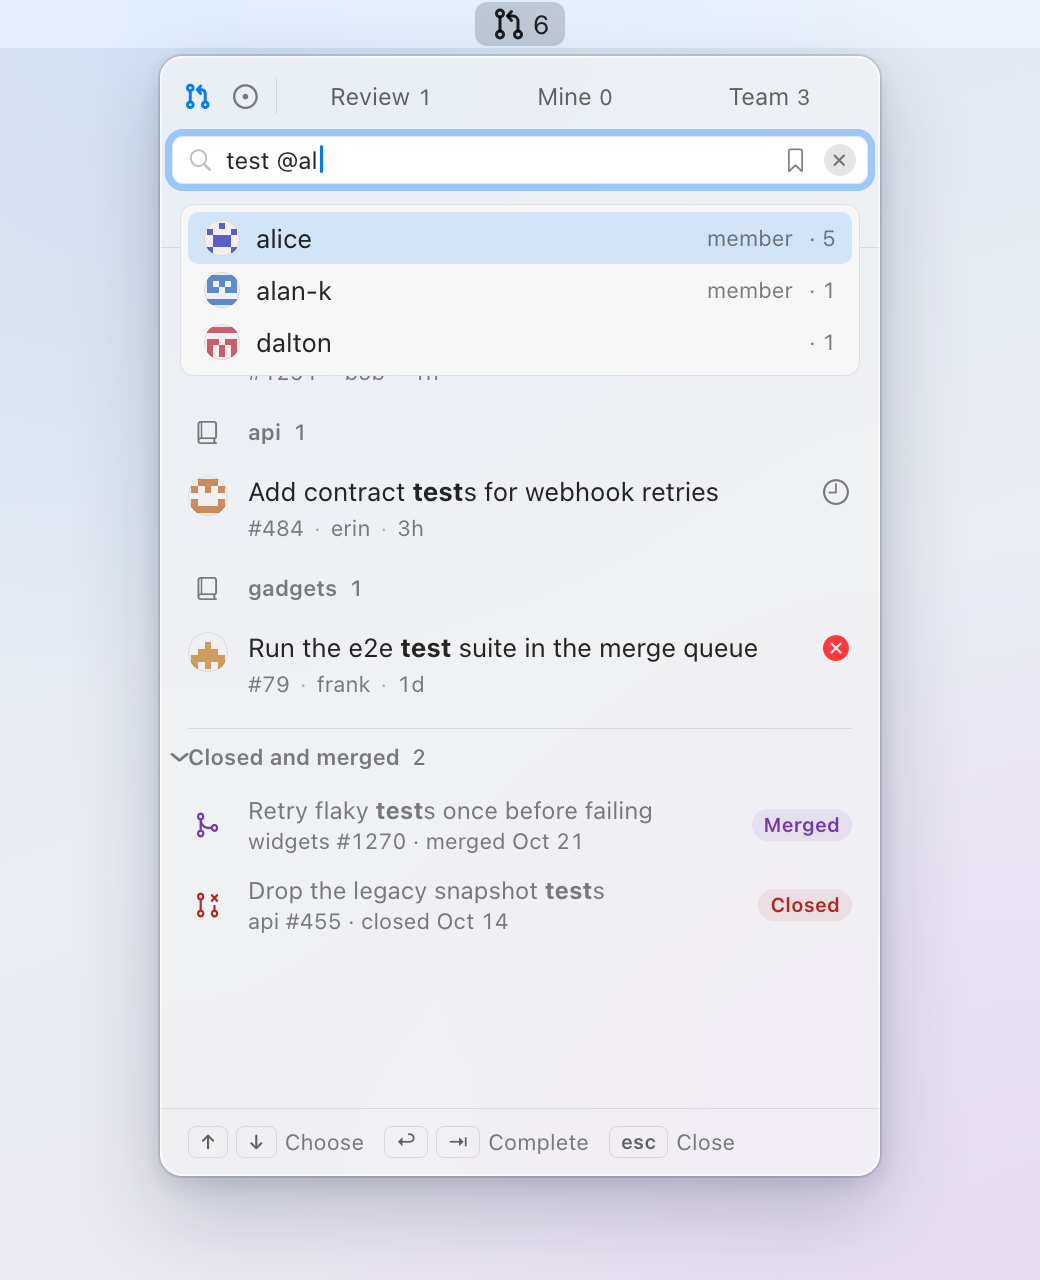
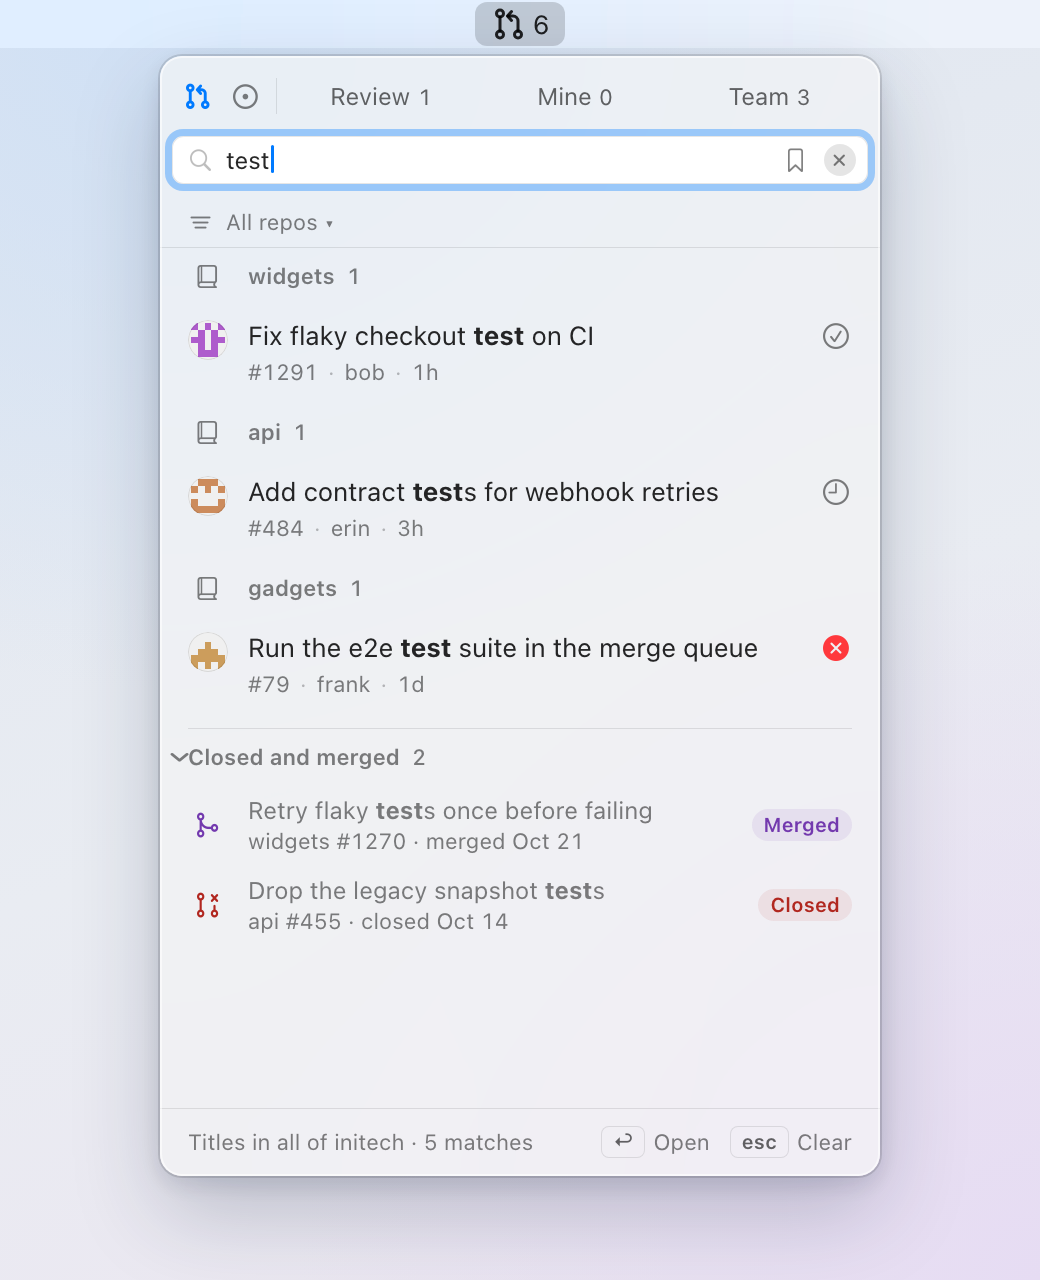
Docs: search still drops the completion list and shows the app's search footer

diff --git a/docs/media/src/search.js b/docs/media/src/search.js
@@ -1,9 +1,9 @@
 // PullBull search as HTML pieces: the results body (SearchResultsView, built from the tab components in
-// components.js), CompletionList, CompletionFooter and SearchFooter. Sizes in points; see popover.css.
+// components.js) and SearchFooter. Sizes in points; see popover.css.
 (function () {
   "use strict";
   const P = window.PullBull;
-  const { avatar, esc } = P;
+  const { esc } = P;
 
   /** Highlight.title: every query word in bold. */
   function highlight(title, words) {
@@ -15,27 +15,13 @@
     return html;
   }
 
-  /** CompletionList for "@…": avatar 18, login 13 pt (or "me · login"), "member" and "· N" in 11 pt. */
-  function completionList(c) {
-    const rows = c.candidates.map((p, i) => {
-      const name = p.isViewer ? `<span class="f13">me</span><span class="f11 c-secondary">· ${esc(p.login)}</span>` : `<span class="f13">${esc(p.login)}</span>`;
-      return `<div class="completion-row${i === c.selection ? " selected" : ""}">${avatar(p.login, 18)}${name}<span class="spacer" style="min-width:8px"></span>` +
-        `${p.isMember ? '<span class="f11 c-secondary">member</span>' : ""}${p.openCount > 0 ? `<span class="f11 c-secondary mono">· ${p.openCount}</span>` : ""}</div>`;
-    });
-    return `<div class="completion-list">${rows.join("")}</div>`;
-  }
-
   const keycap = (k) => `<span class="keycap">${esc(k)}</span>`;
   const keyHint = (keys, label) => `<span class="hstack" style="gap:4px">${keys.map(keycap).join("")}<span>${esc(label)}</span></span>`;
 
-  /** CompletionFooter: replaces the list or search footer while a completion list is open. */
-  function completionFooter() {
-    return `<div class="hstack footer f11" style="padding:0 14px;gap:10px">${keyHint(["↑", "↓"], "Choose")}${keyHint(["↩", "⇥"], "Complete")}${keyHint(["esc"], "Close")}<span class="spacer"></span></div>`;
-  }
-
-  /** SearchFooter: the result count, then ↩ Open and esc Clear. */
-  function searchFooter(count) {
-    return `<div class="hstack footer f11" style="padding:0 14px;gap:10px"><span class="mono">${count === 1 ? "1 result" : `${count} results`}</span><span class="spacer"></span>${keyHint(["↩"], "Open")}${keyHint(["esc"], "Clear")}</div>`;
+  /** SearchFooter: SearchSummary (SearchContext.footerText: coverage, then "· N matches"), "⌥⌘↩ Ask AI" when Ask is offered and the line fits (`s.ask`), then ↩ Open and esc Clear. */
+  function searchFooter(s) {
+    return `<div class="hstack footer f11" style="padding:0 14px;gap:10px"><span class="nowrap" style="font-variant-numeric:tabular-nums">${esc(s.coverage)} · ${s.count === 1 ? "1 match" : `${s.count} matches`}</span><span class="spacer"></span>` +
+      `${s.ask ? '<span class="nowrap">⌥⌘↩ Ask AI</span>' : ""}${keyHint(["↩"], "Open")}${keyHint(["esc"], "Clear")}</div>`;
   }
 
   /** SearchResultsView: the open results as the Team tab lays them out (repo groups, Team rows), then the ended ones under "Closed and merged". */
@@ -50,5 +36,5 @@
     return `<div class="list">${html}</div>`;
   }
 
-  Object.assign(P, { highlight, completionList, completionFooter, searchFooter, searchBody });
+  Object.assign(P, { highlight, searchFooter, searchBody });
 })();

diff --git a/docs/media/src/popover.css b/docs/media/src/popover.css
@@ -30,8 +30,6 @@
   --row-hover: rgba(255, 255, 255, 0.05);
   --approved: #56c26f;
   --card-fill: rgba(255, 255, 255, 0.035);
-  /* .regularMaterial behind the completion list */
-  --menu-material: rgba(48, 48, 50, 0.96);
   /* Native tooltip, darkAqua */
   --tooltip-bg: rgba(44, 44, 46, 0.96);
   --tooltip-text: rgba(255, 255, 255, 0.88);
@@ -81,7 +79,6 @@
   --row-hover: rgba(0, 0, 0, 0.05);
   --approved: #1f7a3a;
   --card-fill: rgba(0, 0, 0, 0.035);
-  --menu-material: rgba(248, 248, 248, 0.97);
   /* Native tooltip, aqua */
   --tooltip-bg: rgba(250, 250, 250, 0.97);
   --tooltip-text: rgba(0, 0, 0, 0.85);
@@ -432,14 +429,6 @@ body {
 .below-header { position: relative; flex: 1 1 auto; min-height: 0; display: flex; flex-direction: column; }
 .row strong, .closed-row strong { font-weight: 700; }
 .caret { display: inline-block; width: 1.5px; height: 14px; margin-left: 1px; vertical-align: -2px; background: var(--accent); border-radius: 1px; }
-.completion-overlay { position: absolute; left: 0; right: 0; top: 0; padding: 4px 10px 0; z-index: 5; }
-.completion-list {
-  padding: 4px; border-radius: 7px; background: var(--menu-material);
-  -webkit-backdrop-filter: blur(30px) saturate(1.6); backdrop-filter: blur(30px) saturate(1.6);
-  box-shadow: inset 0 0 0 0.5px var(--separator);
-}
-.completion-row { display: flex; align-items: center; gap: 8px; padding: 0 8px; height: 26px; border-radius: 5px; white-space: nowrap; color: var(--label); }
-.completion-row.selected { background: color-mix(in srgb, var(--accent) 15%, transparent); }
 .keycap {
   display: inline-flex; align-items: center; justify-content: center; min-width: 18px; height: 16px; padding: 0 6px;
   border-radius: 4px; box-shadow: inset 0 0 0 0.5px var(--separator);

diff --git a/docs/media/src/data/search.js b/docs/media/src/data/search.js
@@ -1,7 +1,6 @@
-// Demo data for search: Pull Requests mode, "test @al" typed with the caret at the end. The "@al" token is
-// being picked, so it is left out of the query (SearchFieldState): the results behind are for "test", laid out
-// like the Team tab, and the people list for "al" covers their top. Tab counts are each tab's matches; no tab
-// is selected (search spans all tabs).
+// Demo data for search: Pull Requests mode, "test" typed with the caret at the end. The results are laid out
+// like the Team tab. Tab counts are each tab's matches; no tab is selected (search spans all tabs). The footer
+// is SearchFooter: the coverage and match count, then Open and Clear. Ask AI is left out: with it the line is wider than the popover, so SearchFooter drops it.
 window.SCENES = window.SCENES || {};
 window.SCENES.search = {
   view: "search",
@@ -14,18 +13,11 @@ window.SCENES.search = {
     { id: "team", title: "Team", count: 3 },
   ],
   selectedTab: null,
-  search: { text: "test @al", focused: true },
+  search: { text: "test", focused: true },
   filter: { repoTitle: "All repos" },
-  completion: {
-    selection: 0,
-    candidates: [
-      { login: "alice", isMember: true, openCount: 5 },
-      { login: "alan-k", isMember: true, openCount: 1 },
-      { login: "dalton", isMember: false, openCount: 1 },
-    ],
-  },
   searchResults: {
     words: ["test"],
+    coverage: "Titles in all of initech",
     count: 5,
     // Laid out as the Team tab is, grouped by repo (newest group first) with Team's rows; no context line.
     groups: [

diff --git a/docs/media/src/components.js b/docs/media/src/components.js
@@ -399,11 +399,9 @@
     const P = window.PullBull;
     const searching = d.view === "search";
     const body = searching ? P.searchBody(d) : d.mode === "issues" ? issueList(d, scheme) : list(d);
-    const foot = d.completion ? P.completionFooter() : searching ? P.searchFooter(d.searchResults.count) : footer(d.viewer);
-    // The completion list overlays the top of the filter row and everything under it (PopoverView.tabsAndSearch).
-    const overlay = d.completion ? `<div class="completion-overlay">${P.completionList(d.completion)}</div>` : "";
+    const foot = searching ? P.searchFooter(d.searchResults) : footer(d.viewer);
     return `<div class="panel">${header(d)}${d.filter ? "" : '<div class="hairline"></div>'}` +
-      `<div class="below-header">${d.filter ? filterBar(d.filter) : ""}${body}${overlay}</div>${foot}</div>`;
+      `<div class="below-header">${d.filter ? filterBar(d.filter) : ""}${body}</div>${foot}</div>`;
   }
 
   function menuBarItem(count, open) {

diff --git a/README.md b/README.md
@@ -45,7 +45,7 @@ Keyboard-first · Native SwiftUI · Read-only
 |:-:|:-:|
 | <picture><source media="(prefers-color-scheme: dark)" srcset="docs/media/pr-detail-dark.png"><img src="docs/media/pr-detail-light.png" width="360" alt="Pull request detail, Ready to merge"></picture> | <picture><source media="(prefers-color-scheme: dark)" srcset="docs/media/issue-detail-dark.png"><img src="docs/media/issue-detail-light.png" width="360" alt="Issue detail with board card and linked PRs"></picture> |
 | **Board** | **Search** |
-| <picture><source media="(prefers-color-scheme: dark)" srcset="docs/media/board-dark.png"><img src="docs/media/board-light.png" width="360" alt="Board tab grouped by Status"></picture> | <picture><source media="(prefers-color-scheme: dark)" srcset="docs/media/search-dark.png"><img src="docs/media/search-light.png" width="360" alt="Search with people completion"></picture> |
+| <picture><source media="(prefers-color-scheme: dark)" srcset="docs/media/board-dark.png"><img src="docs/media/board-light.png" width="360" alt="Board tab grouped by Status"></picture> | <picture><source media="(prefers-color-scheme: dark)" srcset="docs/media/search-dark.png"><img src="docs/media/search-light.png" width="360" alt="Search results laid out like the Team tab"></picture> |
 
 ## Tabs
 
